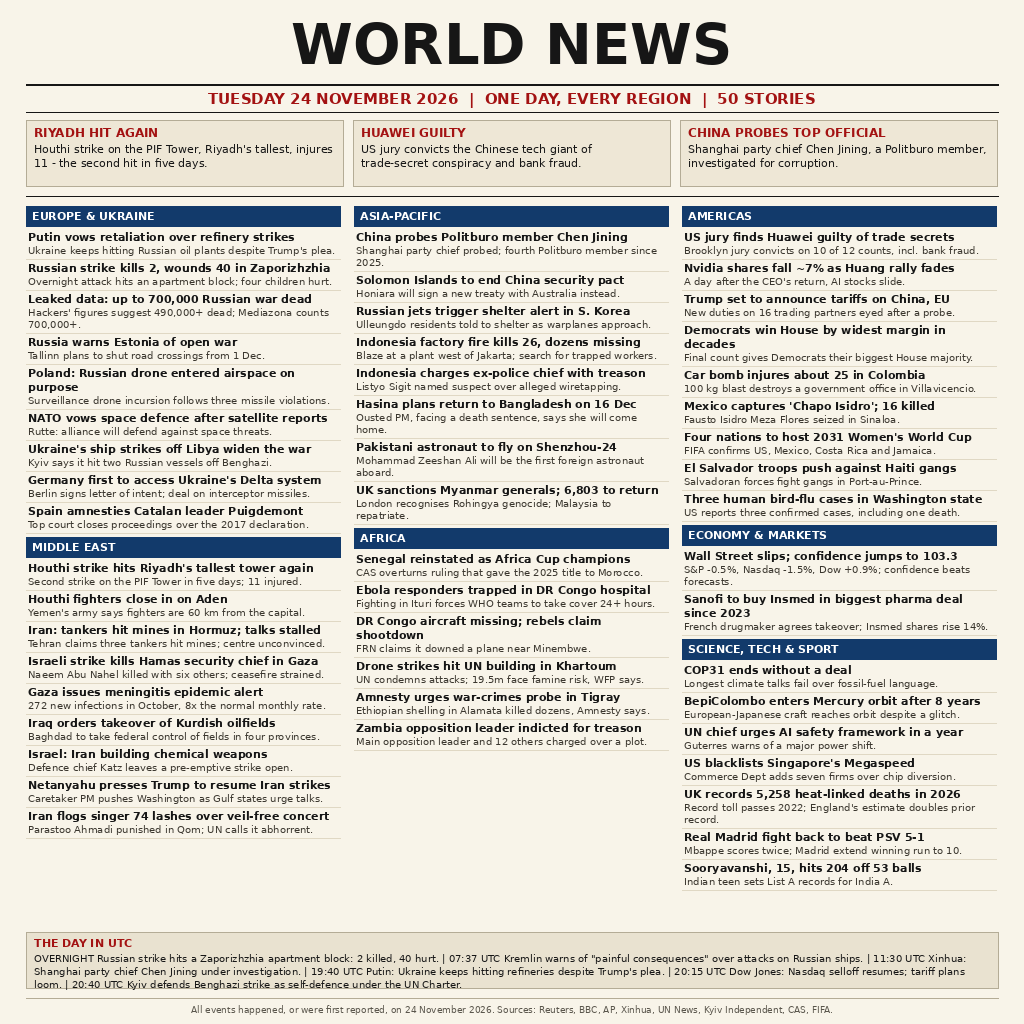
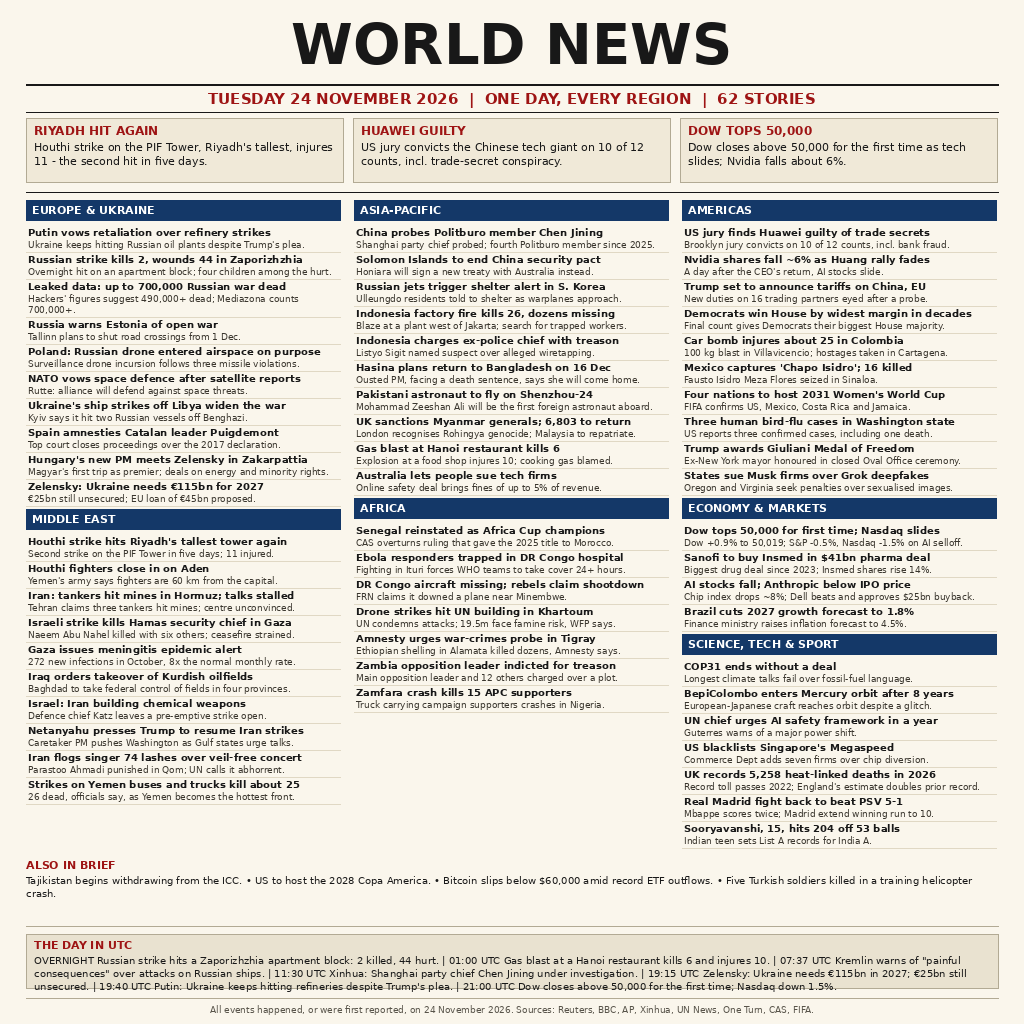
World news 24 November 2026: 62 stories, 7 regions, full-day rebuild

diff --git a/main.py b/main.py
@@ -1,9 +1,16 @@
+"""Copy the pre-rendered front page to the output directory.
+
+The image is drawn offline by draw.py; this program only places the
+finished PNG where the scorer expects it, with no network and no
+randomness, so every run writes the same bytes.
+"""
 import os
 import shutil
 
-HERE = os.path.dirname(os.path.abspath(__file__))
-OUT = os.environ.get("MAKEFUN_OUTPUT_DIR", "/output")
-SRC = os.path.join(HERE, "entry.png")
-DST = os.path.join(OUT, "entry.png")
-os.makedirs(OUT, exist_ok=True)
-shutil.copyfile(SRC, DST)
+BASE = os.path.dirname(os.path.abspath(__file__))
+TARGET_DIR = os.environ.get("MAKEFUN_OUTPUT_DIR", "/output")
+SOURCE = os.path.join(BASE, "entry.png")
+TARGET = os.path.join(TARGET_DIR, "entry.png")
+
+os.makedirs(TARGET_DIR, exist_ok=True)
+shutil.copyfile(SOURCE, TARGET)
